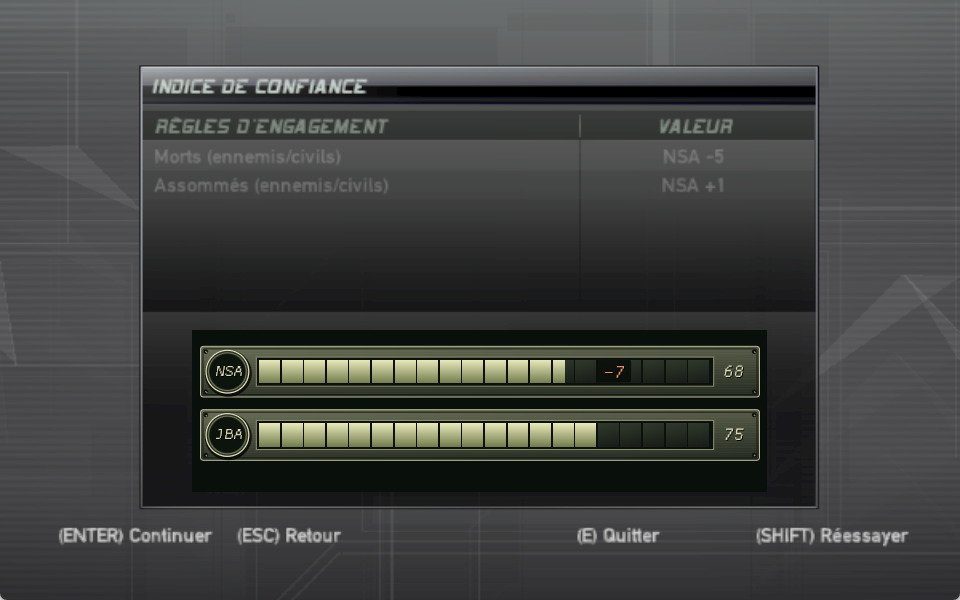
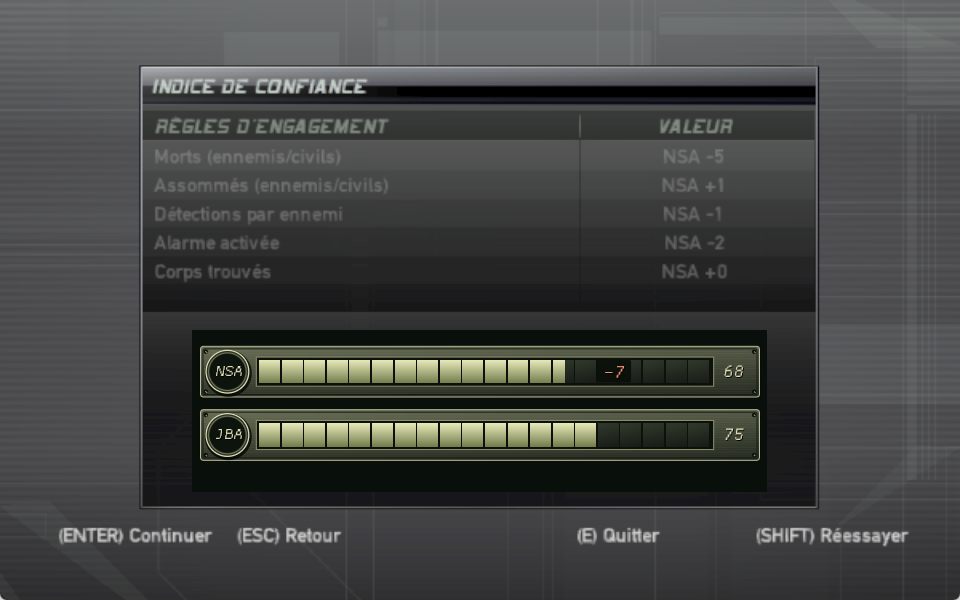
Refresh settled mission review capture and document timing fix

Changed region(s): [[0.1562, 0.33, 0.3438, 0.48], [0.6875, 0.33, 0.75, 0.48]]

diff --git a/MODLOG.md b/MODLOG.md
@@ -206,3 +206,4 @@ trust-animation-loss-start.png, trust-animation-loss-end.png,
 trust-animation-gain.png. Only the isolated test instance was used.
 Delta position corrected after user feedback: midpoint(previous,current) mapped to track coordinates, with edge clamping to keep the full label inside the bar.
 Delta placement refined per user: label starts just to the right of max(previous,current), with track-edge clamping.
+Mission review presentation correction: summary rows no longer inherit an equal-valued live notification's timer, avoiding fill animation/fade followed by a snap when the five-second popup expires. README review capture will wait until the native rule reveal completes.

diff --git a/knowledge/TRUST_IMPLEMENTATION.md b/knowledge/TRUST_IMPLEMENTATION.md
@@ -159,3 +159,4 @@ Live native fixtures verified JBA75->60 (-15) and NSA75->90 (+15), capturing
 changing fill/highlight frames in the isolated lab.
 Delta labels are anchored to the midpoint of the gained/lost value range, clamped within the track at its edges, rather than centered across the entire meter.
 Final delta placement: immediately after max(previous,current), clamped to remain inside the track when the score is near100.
+Mission-review rows use a static forecast independently of any active gameplay notification, including when the two deltas happen to match. The native rule-table reveal still runs normally.
